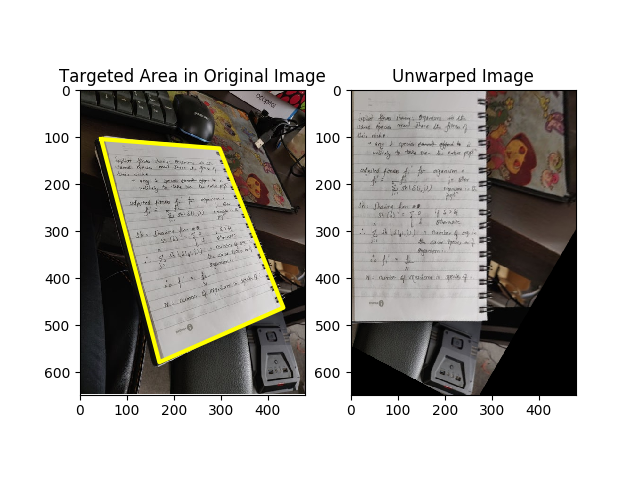
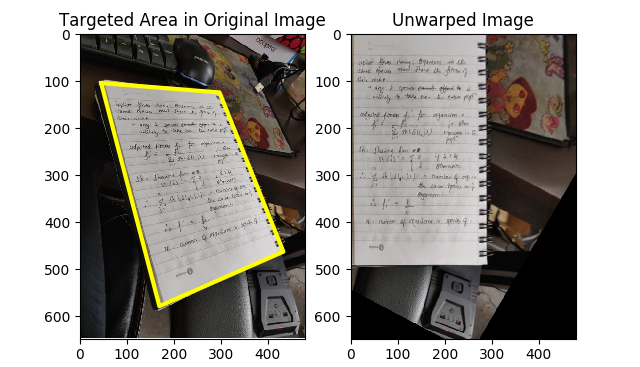
updated readme. changed image size

diff --git a/skew_correction.py b/skew_correction.py
@@ -117,6 +117,7 @@ def example_one():
     un_warped = unwarp(image, np.float32(corners), destination)
     cropped = un_warped[0:h, 0:w]
     plt.imshow(cropped)
+    plt.title('Skew corrected rectangle')
     plt.show()
 
 
@@ -202,7 +203,7 @@ def detect_corners_from_contour(canvas, cnt):
     approx_corners = [approx_corners[i] for i in [0, 2, 1, 3]]
 
     plt.imshow(canvas)
-    plt.title('Corner Points')
+    plt.title('Corner Points: Douglas-Peucker')
     plt.show()
     return approx_corners
 
@@ -229,6 +230,7 @@ def example_two():
 
     cropped = un_warped[0:h, 0:w]
     plt.imshow(cropped)
+    plt.title('Skew corrected notebook')
     plt.show()
 
 

diff --git a/README.md b/README.md
@@ -4,9 +4,11 @@ The python file contains a skew corrector for rectangle-like objects. I have use
 - Type 1: smooth with no interfering background (figure 1) 
 - Type 2: highly textured but more realistic image (figure 2) 
 
-![figure 1](images/rectangle_unwarp.png) 
+![](images/example_1.png) 
+*figure 1*
 
-![figure 2](images/unwarping_nb.png)
+![](images/example_2.jpg)
+*figure 2*
 
 ## Corner Detectors
 
@@ -20,14 +22,8 @@ I used the following two mechanisms of corner detection on image type 1 and imag
 - `cv2.warpPerspective()`
 
 ## Results 
-![Corners detected in figure 1](images/shi_tomashi_corners.png)
-
-![skew corrected in figure 1](images/unwarped_rect.png)
-
-![Corners detected in figure 2](images/corner_nb.png)
-
-![skew corrected in figure 2](images/unwarpped_nb.png)
-
+![](images/corner_map.png) ![](images/shi_tomashi_corners.png) ![](images/rectangle_unwarp.png)
+![](images/filtered_notebook.png) ![](images/Douglas-Peucker.png) ![](images/unwarping_nb.png)
 
 ###### For a detailed explanation, refer to my medium article
 
